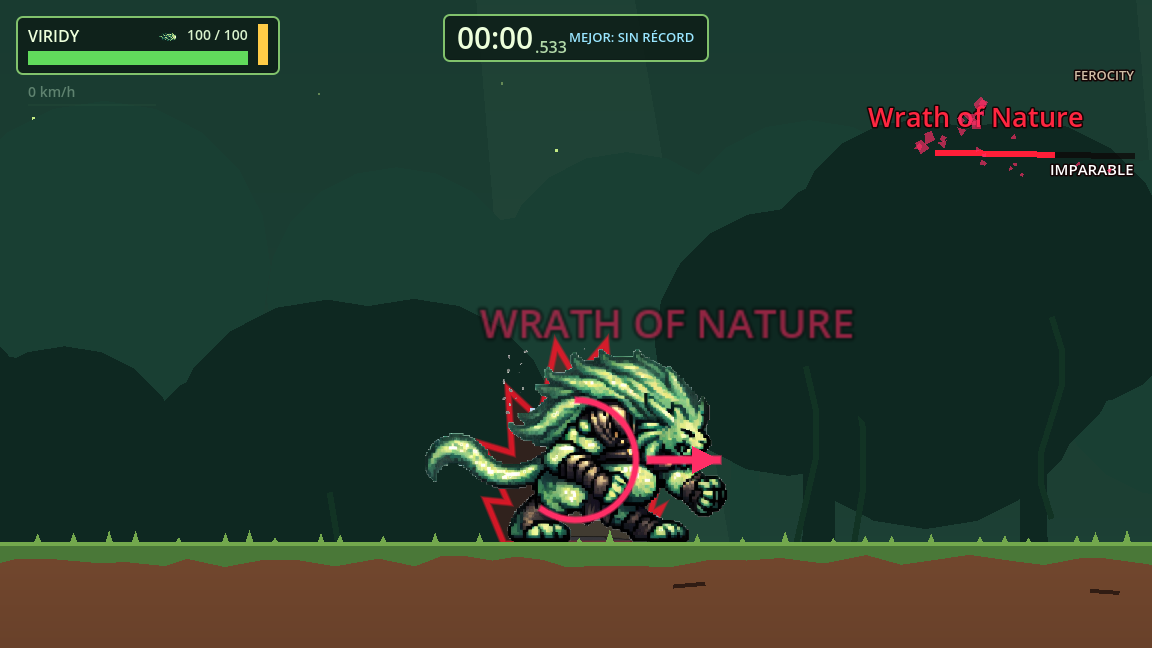
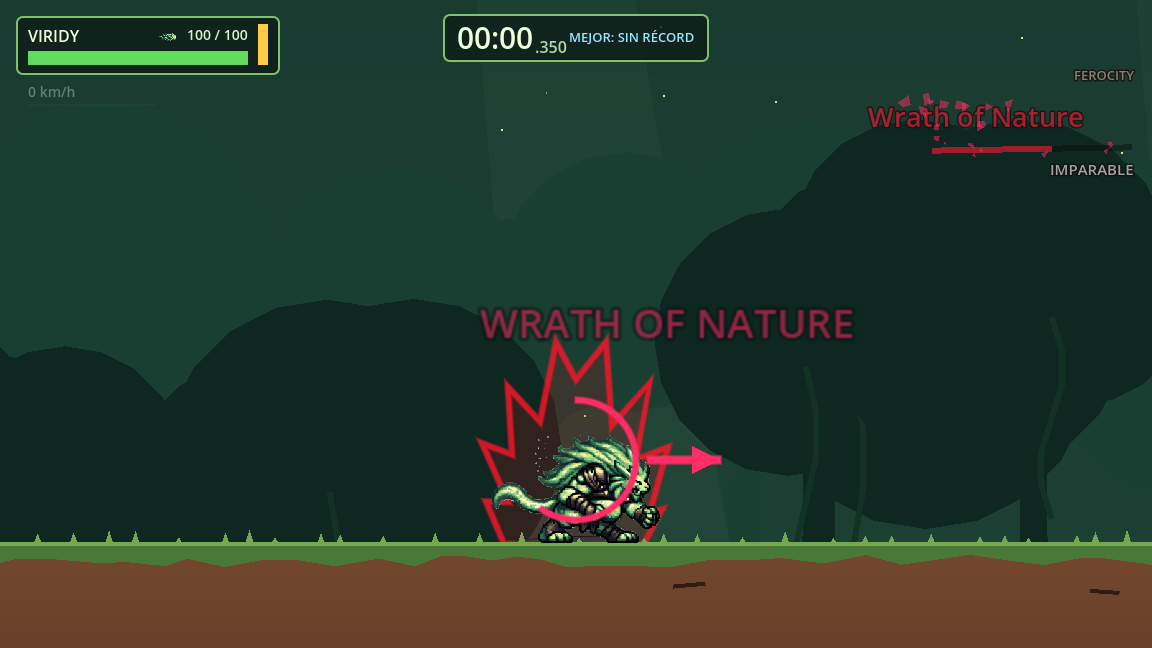
Show parry hexagons and fix crouch scale and movement restrictions

diff --git a/docs/combat_feedback/index.html b/docs/combat_feedback/index.html
@@ -18,7 +18,8 @@ const groups=[
  ['Ruby · Vida y postura',[['ruby_100','100% · Rojo y contorno completos'],['ruby_50','50% · Fondo oscuro y perímetro parcial'],['ruby_20','20% · Poca vida y postura'],['ruby_0','0% · Núcleo oscuro']]],
  ['Guardián · Giro vertical',Array.from({length:4},(_,i)=>['spin_0_'+i,'Plano vertical · Pose '+(i+1)])],
  ['Guardián · Giro horizontal',Array.from({length:4},(_,i)=>['spin_1_'+i,'Plano horizontal · Pose '+(i+1)])],
- ['Shine · Metatrón original',[['shine_0','0,00 s · Metatrón completo con brillo inicial'],['shine_16','0,16 s · Comienza el giro del aura'],['shine_30','0,30 s · Metatrón latente con opacidad original']]],
+ ['Shine · Hexágonos',[['shine_0','0,00 s · Centro sólido y contorno de cobertura del parry'],['shine_16','0,16 s · Fin del parry, comienza la transición'],['shine_30','0,30 s · Metatrón translúcido giratorio']]],
+ ['Agachado · Escala',[['idle_scale','Viridy de pie · Escala de referencia'],['crouch_scale','Viridy agachado · Tamaño corregido y pies apoyados']]],
  ['Controles y Ready',[['taunt','Select / R · Taunt inmediato'],['pause','Reinicios desde Pausa'],['ready_0','Ready · 0.00'],['ready_50','Ready · 0.50'],['go','GO! · 1.00']]]
 ];
 const group=document.querySelector('#group'),slider=document.querySelector('#frame'),image=document.querySelector('#image');

diff --git a/docs/combat_feedback/README.md b/docs/combat_feedback/README.md
@@ -12,10 +12,14 @@ Select (R en teclado) activa la pose orgullosa estando quieto en el suelo. Se ma
 
 Ready muestra 0.00 y cuenta hasta 1.00 en un segundo real. Durante ese segundo el mundo está detenido; el reloj de la run empieza con GO. Se conservan los sonidos de Ready y GO y se añade el pulso intermedio a 0,50 s.
 
-El shine recupera su Metatrón anterior: aparece completo de inmediato, derecho, a tamaño normal, con opacidad 0,8 y un brillo inicial. Después del parry gira lentamente, pulsa y mantiene su opacidad original entre 0,5 y 0,7. Se conservan las ondas del rugido y el destello al conectar un parry. El radio del parry, sus 0,16 s, i-frames, empuje y bloqueo no se modifican.
+El shine empieza con un hexágono dorado sólido de 16 px de alto al centro y un segundo hexágono dorado de contorno alrededor de Viridy. Los lados del contorno rodean el radio circular real del parry, sin alterar sus colisiones. Ambos permanecen completos durante los 0,16 s del parry; después se funden durante 0,12 s con el Metatrón giratorio, de opacidad aproximada 0,43. Se conservan las ondas del rugido, el destello al conectar un parry, i-frames, empuje y bloqueo.
+
+El agachado usa la escala de su pose original de salto, con los pies apoyados al mismo nivel. Abajo solo permite agacharse estando en el suelo, quieto o caminando; bloquea el desplazamiento horizontal hasta soltarlo o iniciar otra acción. Corrida, frenada rápida, dash, ataques y estados especiales conservan su movimiento y presentación. Saltar cancela el agachado. Su collider original no cambia, y Wrath solo se carga desde este agachado válido.
 
 ```bash
 RUBY1_SKIP_COUNTDOWN=1 godot --path . --rendering-method gl_compatibility --audio-driver Dummy -s res://tools/art/capture_combat_feedback.gd
 ```
 
 `validation.json` recoge los resultados de integración. La nueva suite `test_combat_feedback.gd` prueba también golpes reales de ambos giros, coincidencia entre dibujo y segmentos de parry, dirección fijada, taunt sin reinicio, reinicios de pausa y migración de controles. Las suites históricas de velocidad y presentación se ajustaron a los requisitos nuevos. Las capturas y pruebas quedan excluidas de los ejecutables.
+
+`hex_crouch_validation.json` registra las 226 comprobaciones de la revisión de hexágonos y agachado: movimiento, Wrath, presentación del combate, shine/bloqueo y combos. Las capturas de `idle_scale` y `crouch_scale` comparan ambas poses con la misma cámara; `shine_0`, `shine_16` y `shine_30` muestran la transición nueva.

diff --git a/docs/wrath_nature/README.md b/docs/wrath_nature/README.md
@@ -4,7 +4,7 @@ La galería `index.html` muestra capturas del renderer de Godot: carga, preparac
 
 ## Wrath of Nature
 
-Abajo en el suelo permite agacharse sin cambiar movimiento, inputs ni la caja de colisión original. Con SSS, sostenerlo 1 s sin atacar, hacer dash o rugir carga la ultimate. La carga reserva el rango frente al desgaste pasivo y puede cancelarse antes de gastar nada; recibir daño conserva sus consecuencias normales. Al completarla consume toda la ferocidad y muestra **Wrath of Nature** durante una preparación de 4 s con aura roja animada. En esa preparación los golpes siguen quitando vida, pero no interrumpen, y los proyectiles se destruyen. Caducar no devuelve estilo.
+Abajo permite agacharse en el suelo, estando quieto o caminando, con la escala de la pose original de salto y sin cambiar la caja de colisión. Mientras se agacha queda quieto; no se agacha ni carga Wrath durante corrida, frenada rápida, dash o ataques. Saltar o iniciar otra acción cancela el agachado. Con SSS, sostenerlo 1 s sin atacar, hacer dash o rugir carga la ultimate. La carga reserva el rango frente al desgaste pasivo y puede cancelarse antes de gastar nada; recibir daño conserva sus consecuencias normales. Al completarla consume toda la ferocidad y muestra **Wrath of Nature** durante una preparación de 4 s con aura roja animada. En esa preparación los golpes siguen quitando vida, pero no interrumpen, y los proyectiles se destruyen. Caducar no devuelve estilo.
 
 Con la ultimate cargada, pulsar **heavy** abre una anticipación de **0,25 s**, por delante del uppercut o cualquier otro ataque. Viridy queda quieto y una flecha indica la dirección. Durante esa ventana se elige o corrige cualquiera de las ocho direcciones; se conserva la última indicada aunque se suelte. Si no se indica ninguna, usa el facing al pulsar heavy. Al terminar la ventana sale automáticamente, sin segundo botón, a 1850 unidades/s. La selección conserva el aura y el estado imparable, pero aún recibe daño; la invulnerabilidad empieza al salir. Confirmar antes de caducar READY reserva los 0,25 s completos.
 
